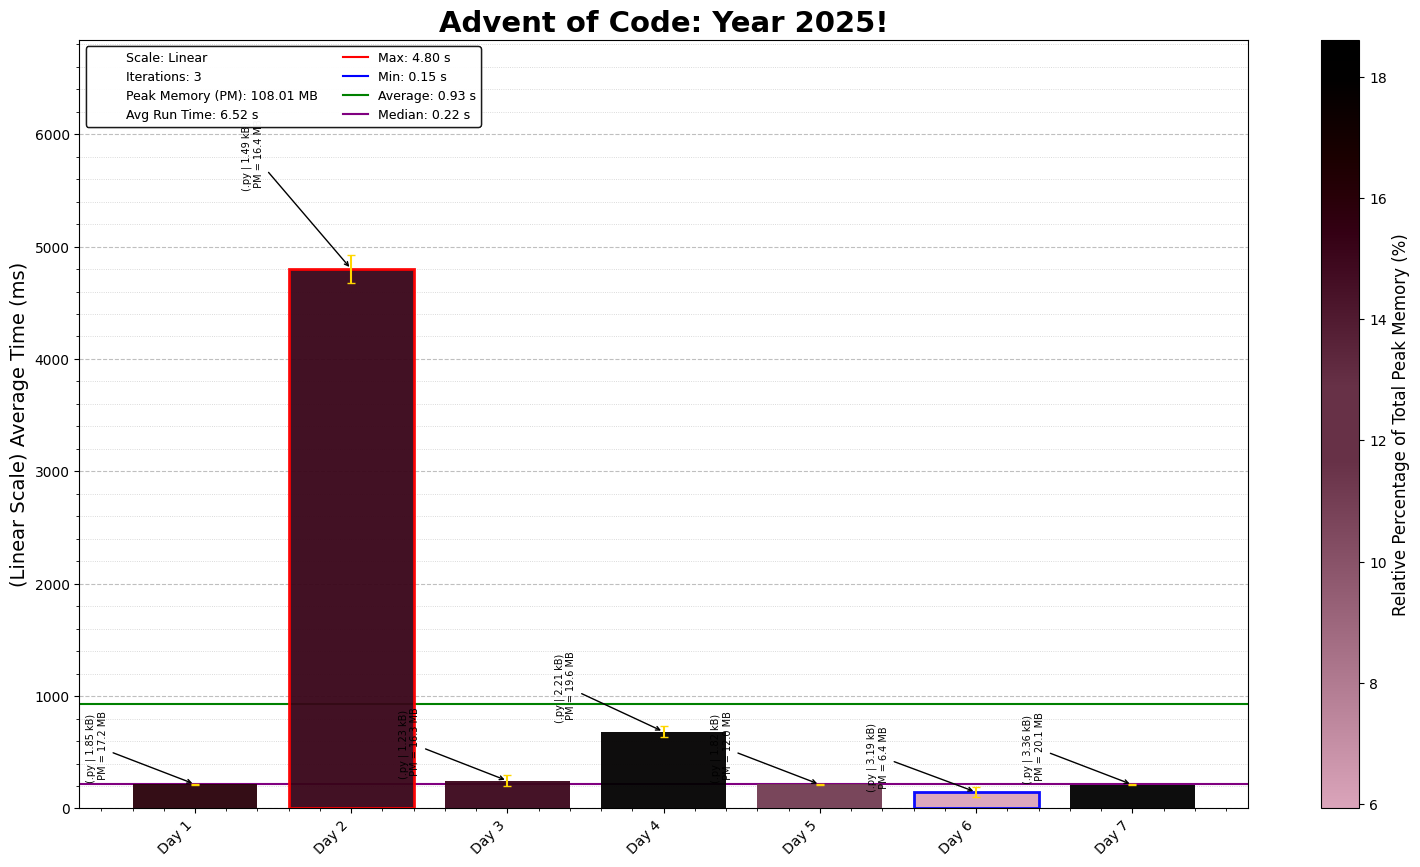
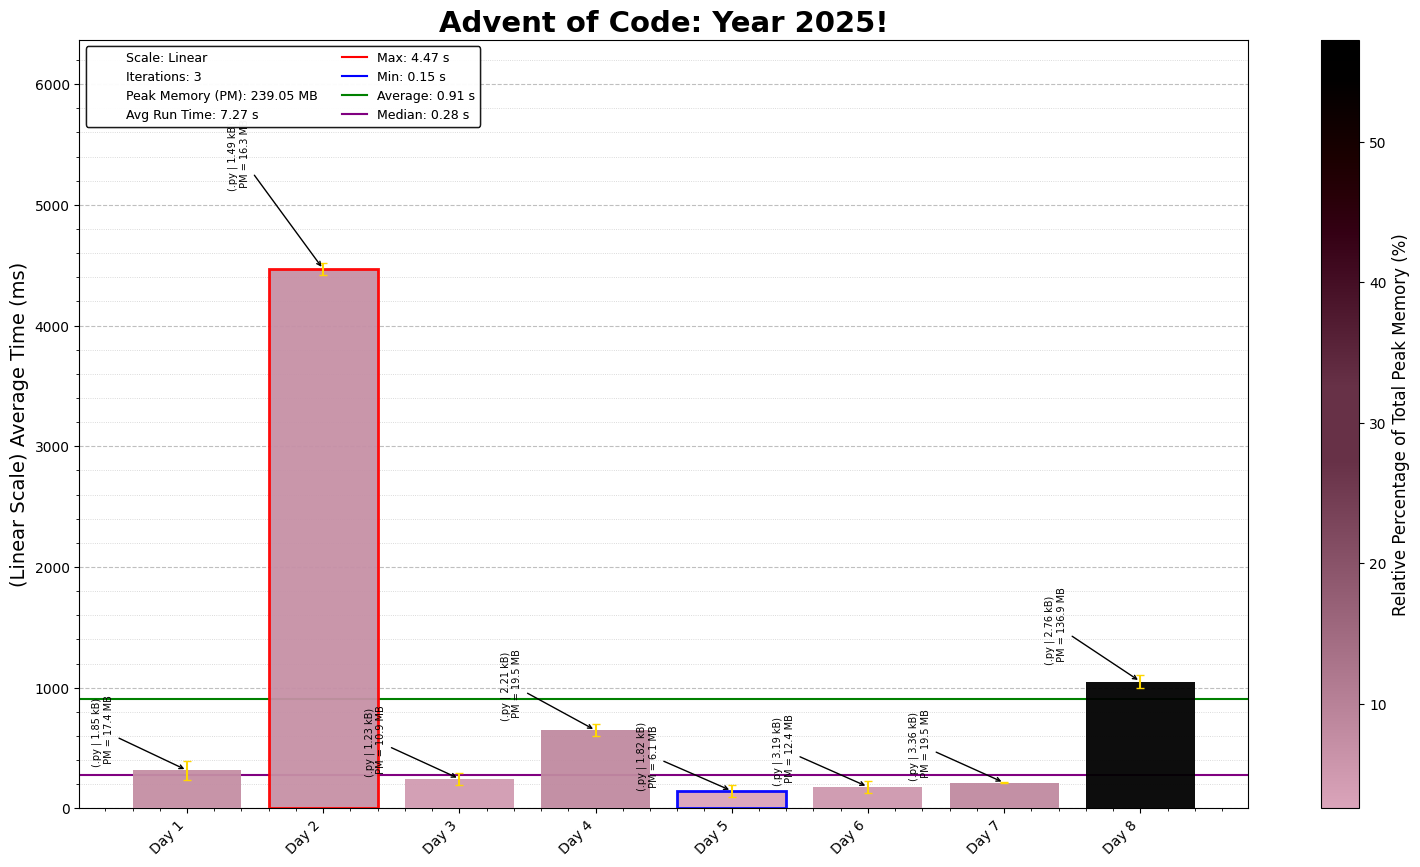
AOC 2025 Day 08: Playground

diff --git a/2025/08/2025Day08.py b/2025/08/2025Day08.py
@@ -1,0 +1,92 @@
+"""Advent of Code - Day 8, Year 2025
+Solution Started: December 8, 2025
+Puzzle Link: https://adventofcode.com/2025/day/8
+Solution by: Abbas Moosajee
+Brief: [Playground]"""
+
+#!/usr/bin/env python3
+from pathlib import Path
+from math import sqrt, prod
+from itertools import combinations
+
+# Load input file
+input_file = "Day08_input.txt"
+input_path = Path(__file__).parent / input_file
+
+with input_path.open("r", encoding="utf-8") as f:
+    data = f.read().splitlines()
+# -------------------------
+# Union–Find (Disjoint Set)
+# -------------------------
+class UnionFind:
+    def __init__(self, n):
+        self.parent = list(range(n))
+        self.size = [1] * n
+
+    def find(self, x):
+        while self.parent[x] != x:
+            self.parent[x] = self.parent[self.parent[x]]  # path compression
+            x = self.parent[x]
+        return x
+
+    def union(self, a, b):
+        ra = self.find(a)
+        rb = self.find(b)
+        if ra == rb:
+            return False
+        # union by size
+        if self.size[ra] < self.size[rb]:
+            ra, rb = rb, ra
+        self.parent[rb] = ra
+        self.size[ra] += self.size[rb]
+        return True
+
+class JunctionBox:
+    def __init__(self, box_coords):
+        self.boxes = [tuple(map(int, coords.split(","))) for coords in box_coords]
+
+    @staticmethod
+    def euclid_dist(pos_1, pos_2):
+        x1, y1, z1 = pos_1
+        x2, y2, z2 = pos_2
+        sqr_dist = (x2 - x1)**2 + (y2 - y1)**2 + (z2 - z1)**2
+        return sqrt(sqr_dist)
+
+    def build_circuits(self, max_k = 1000):
+        boxes = self.boxes
+
+        uf = UnionFind(len(boxes))
+
+        part_1 = part_2 = 0
+        merges = 0
+
+        pairs = [(test_pair) for test_pair in combinations(list(enumerate(boxes)), 2)]
+
+        pairs.sort(key=lambda c: self.euclid_dist(c[0][1], c[1][1]))
+
+        for k, pair in enumerate(pairs):
+            if k == max_k:
+
+                comp_size = [0] * len(boxes)
+                for i in range(len(boxes)):
+                    comp_size[uf.find(i)] += 1
+
+                comp_size.sort(reverse=True)
+                part_1 = prod(comp_size[:3])
+
+            if uf.union(pair[0][0], pair[1][0]):
+                merges += 1
+
+            if merges == len(boxes) - 1:
+                part_2 = pair[0][1][0] * pair[1][1][0]
+                break
+
+        return part_1, part_2
+
+
+junction = JunctionBox(data)
+part_1, part_2 = junction.build_circuits()
+print("AOC Day 08, P1:", part_1)
+print("AOC Day 08, P2:", part_2)
+
+

diff --git a/2025/README_2025.md b/2025/README_2025.md
@@ -11,3 +11,4 @@ This repository contains coding solutions for the 2025 Advent of Code.
 5. **Day 5 - Cafeteria**: *Python* | Validating a set of numbers through a series of ranges, and then counting all the numbers.
 6. **Day 6 - Trash Compactor**: *Python* | Reading a list of strings into numbers in a desired order is far from simple.
 7. **Day 7 - Laboratories**: *Python* | BFS and DFS, the good ole AOC algorithms back to use.
+8.**Day * - Playground**: *Python* | Union find is the name of the game.
